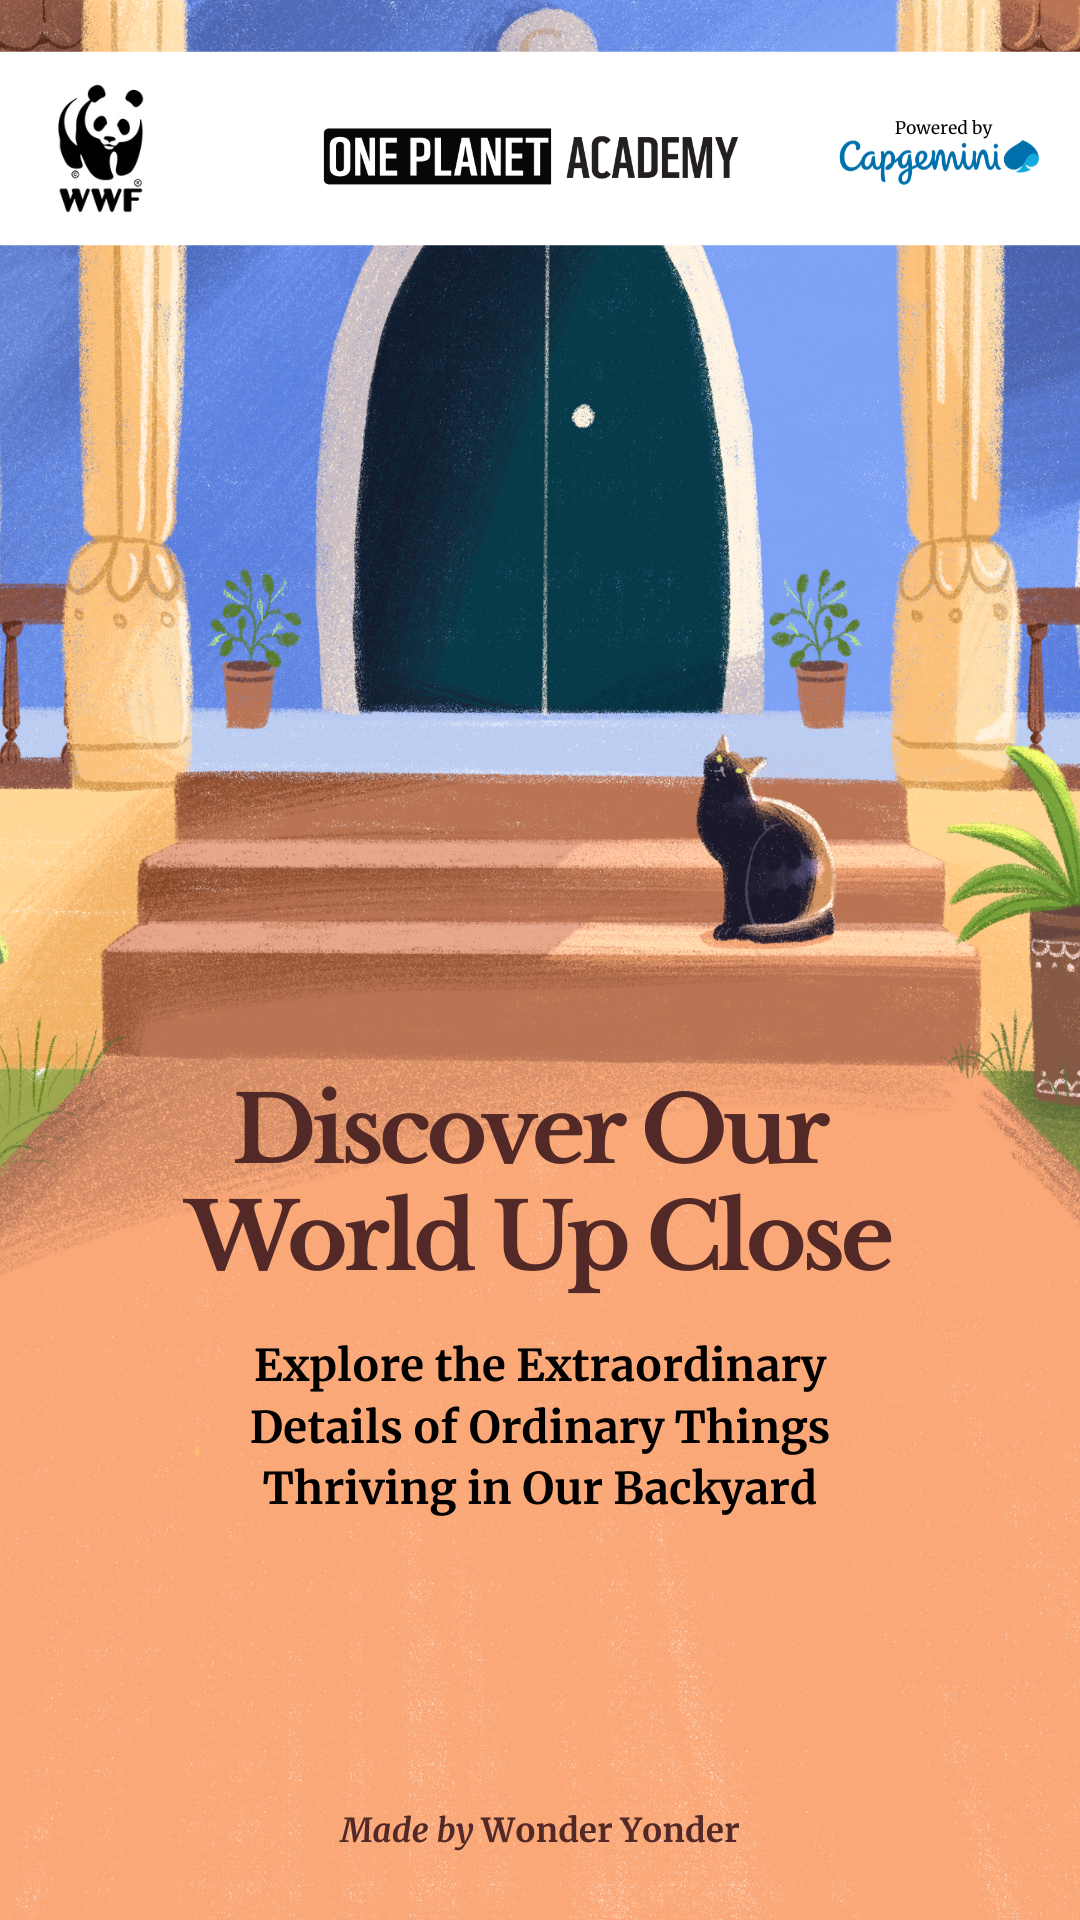
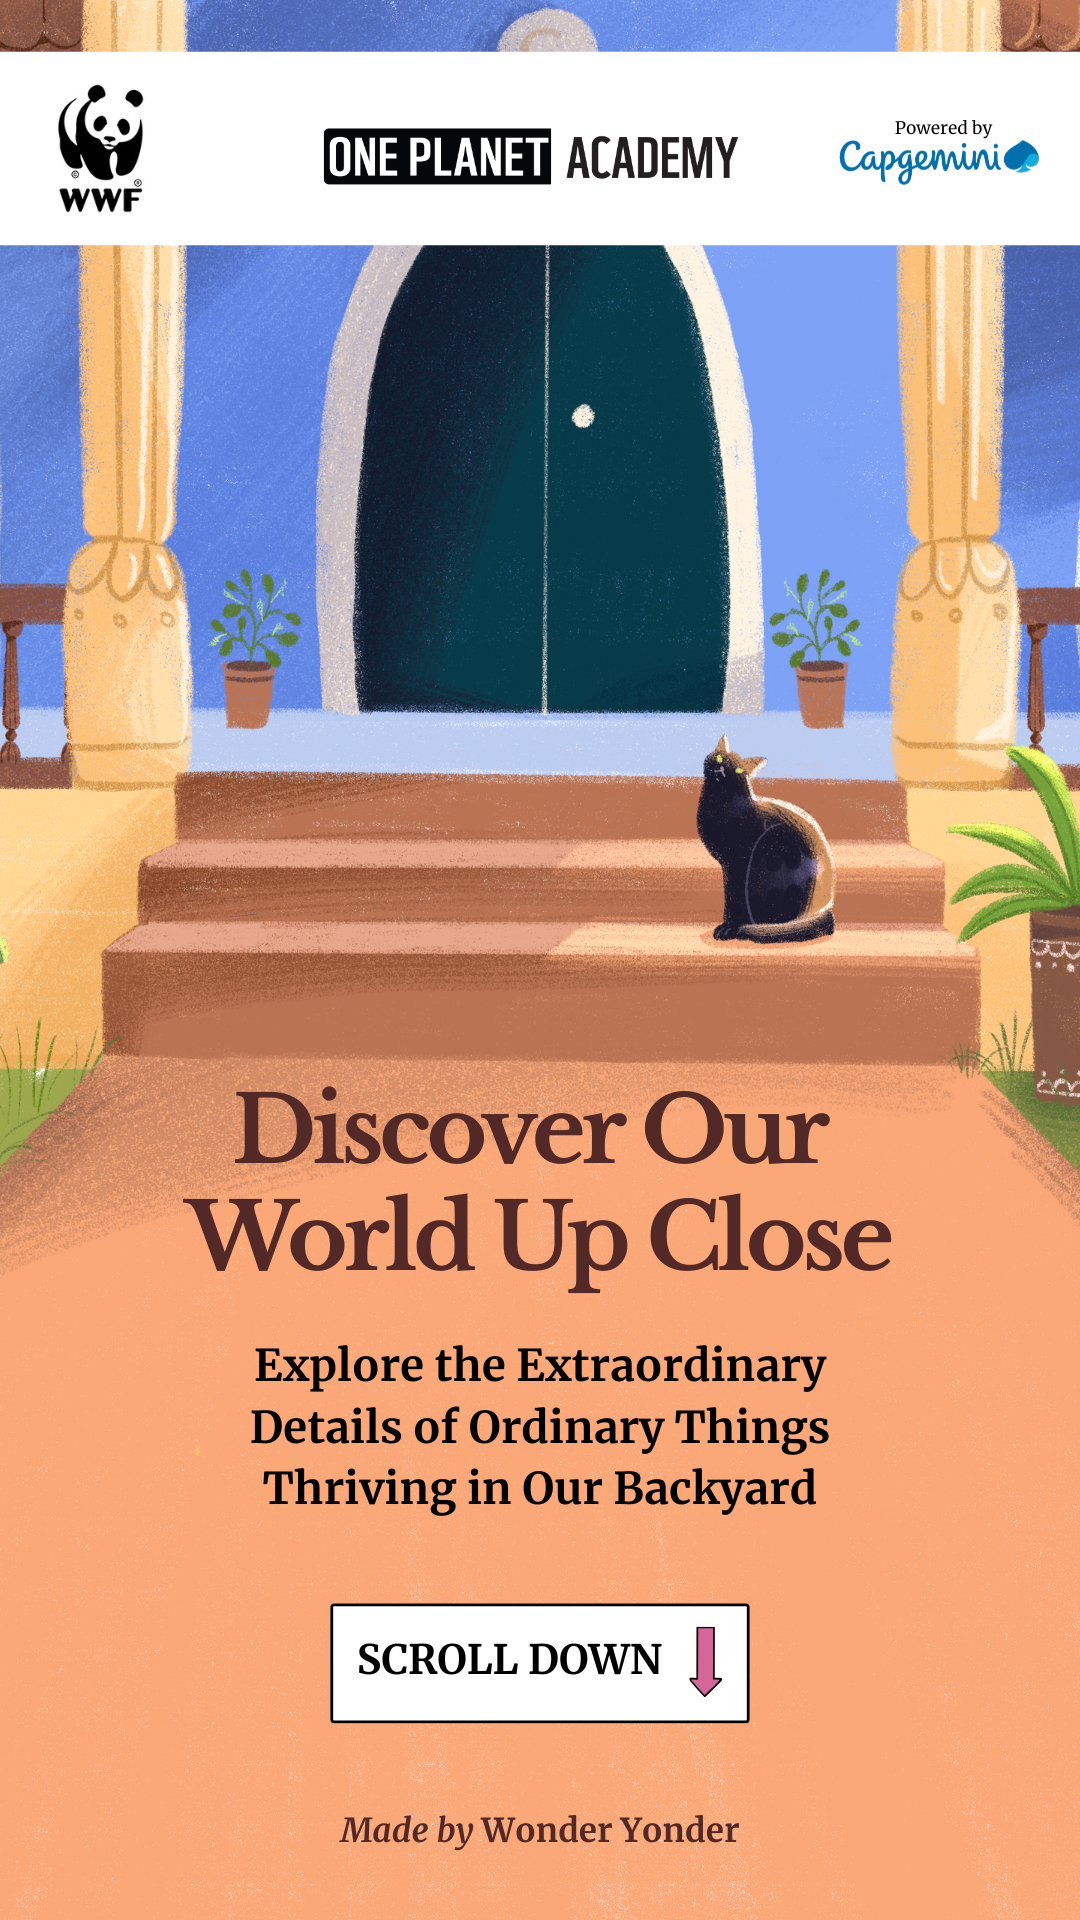
Title pages updated and linked added- updated

Changed region(s): [[0.3056, 0.8125, 0.7028, 0.9062]]

diff --git a/styles.css b/styles.css
@@ -381,8 +381,9 @@ body.loading .first-background {
   width: 100%;
   height: 100%;
   cursor: pointer;
-  /* Debug styling - remove after positioning is confirmed */
-  /* background-color: rgba(255, 0, 0, 0.3); Semi-transparent red */
+   -webkit-tap-highlight-color: transparent; /* Remove mobile highlight */
+  -webkit-touch-callout: none; /* Remove iOS link preview */
+  user-select: none;
 }
 
 /* For debugging purposes only - remove after testing */
